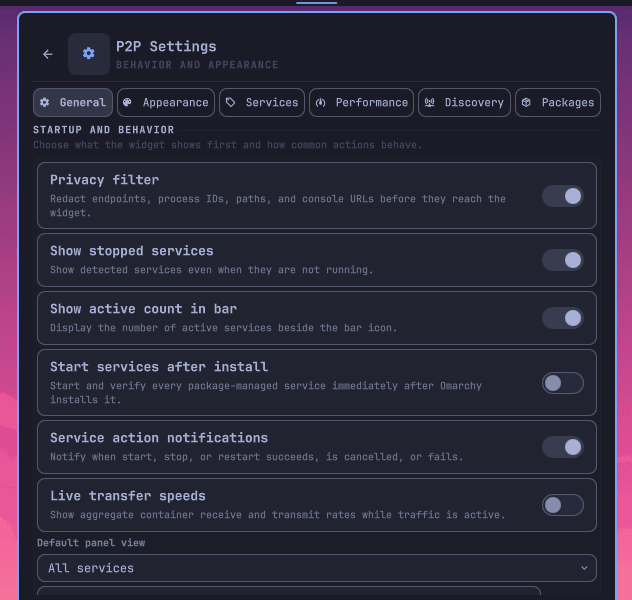
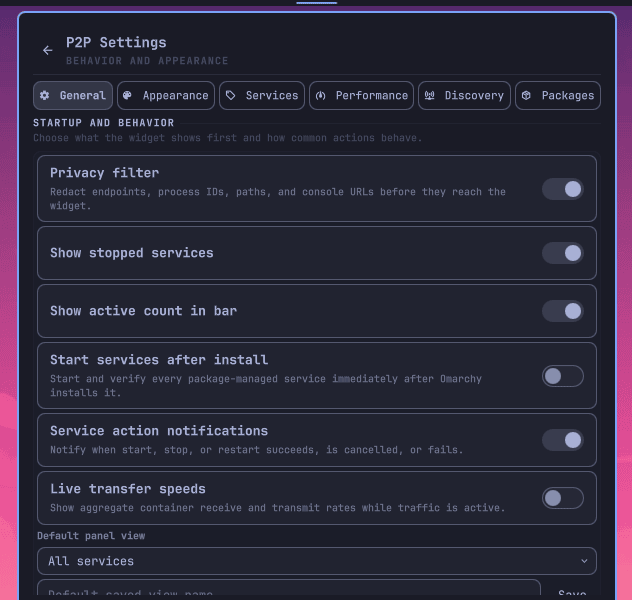
refactor: clarify settings information

Changed region(s): [[0.0301, 0.06, 0.962, 1.0]]

diff --git a/P2PDiscoverySettings.qml b/P2PDiscoverySettings.qml
@@ -11,10 +11,9 @@ ColumnLayout {
   visible: controller.settingsPage === "discovery"
   Layout.fillWidth: true
   spacing: Style.spacing.md
-          P2PSectionHeading { title: "Console routing"; description: "Choose the fallback host used for discovered container consoles." }
+          P2PSectionHeading { title: "Console routing"; description: "Fallback routing for published container consoles." }
           SettingsSurface {
-          Text { text: "Global console host"; textFormat: Text.PlainText; color: Color.muted; font.family: Style.font.family; font.pixelSize: Style.font.caption }
-          Text { Layout.fillWidth: true; text: "Used with published container ports when no reverse-proxy URL is discovered. Leave empty for 127.0.0.1."; textFormat: Text.PlainText; color: Color.muted; wrapMode: Text.WordWrap; font.family: Style.font.family; font.pixelSize: Style.font.caption }
+          Text { text: "Fallback console host · blank uses 127.0.0.1"; textFormat: Text.PlainText; color: Color.muted; font.family: Style.font.family; font.pixelSize: Style.font.caption }
           RowLayout {
             Layout.fillWidth: true
             TextField { id: consoleHostEditor; objectName: "consoleHostEditor"; Layout.fillWidth: true; placeholderText: "server.home.arpa or 192.168.1.10"; text: String(page.controller.setting("consoleHost", "")); foreground: Color.popups.text; accent: Color.bar.active; font.family: Style.font.family; onAccepted: page.controller.persistKeepingOpen({consoleHost: text.trim()}) }
@@ -22,9 +21,8 @@ ColumnLayout {
           }
           }
 
-          P2PSectionHeading { title: "Service filtering"; description: "Limit the widget to selected detected backend IDs." }
+          P2PSectionHeading { title: "Service filtering"; description: "Optionally limit discovery to selected backend IDs." }
           SettingsSurface {
-          Text { Layout.fillWidth: true; text: "Comma-separated backend IDs. Leave empty to show every detected service."; textFormat: Text.PlainText; color: Color.muted; wrapMode: Text.WordWrap; font.family: Style.font.family; font.pixelSize: Style.font.caption }
           RowLayout {
             Layout.fillWidth: true
             TextField { id: serviceAllowlistEditor; objectName: "serviceAllowlistEditor"; Layout.fillWidth: true; placeholderText: "yggdrasil, i2pd, syncthing"; text: Model.enabled(page.controller.setting("enabledServices", []), []).join(", "); foreground: Color.popups.text; accent: Color.bar.active; font.family: Style.font.family }
@@ -32,9 +30,9 @@ ColumnLayout {
           }
           }
 
-          P2PSectionHeading { title: "Custom services"; description: "Add strictly validated process or systemd-backed services." }
+          P2PSectionHeading { title: "Custom services"; description: "Add validated, observation-only process or systemd services." }
           SettingsSurface {
-          Text { Layout.fillWidth: true; text: "JSON array; IDs must begin custom-. Custom services are observation-only: executable, process, and systemd names support detection but cannot be started, stopped, restarted, or edited."; textFormat: Text.PlainText; color: Color.muted; wrapMode: Text.WordWrap; font.family: Style.font.family; font.pixelSize: Style.font.caption }
+          Text { Layout.fillWidth: true; text: "JSON array; IDs begin custom-. Executable, process, and unit fields support detection but never control actions."; textFormat: Text.PlainText; color: Color.muted; wrapMode: Text.WordWrap; font.family: Style.font.family; font.pixelSize: Style.font.caption }
           RowLayout {
             Layout.fillWidth: true
             TextField { id: customServicesEditor; objectName: "customServicesEditor"; Layout.fillWidth: true; placeholderText: "[]"; text: JSON.stringify(page.controller.setting("customServices", [])); foreground: Color.popups.text; accent: Color.bar.active; font.family: Style.font.family }

diff --git a/P2PPackagesSettings.qml b/P2PPackagesSettings.qml
@@ -8,6 +8,7 @@ import "Model.js" as Model
 ColumnLayout {
   id: page
   required property var controller
+  readonly property bool catalogEmpty: controller.missingServices.length === 0 && controller.detectedServiceCatalog.length === 0
   visible: controller.settingsPage === "packages"
   Layout.fillWidth: true
   spacing: Style.spacing.md
@@ -25,6 +26,8 @@ ColumnLayout {
             IntegerSetting { controller: page.controller; settingKey: "backupRetention"; label: "Configuration backups retained per service"; minimum: 1; maximum: 50; fallback: 10 }
           }
           RowLayout {
+            objectName: "availablePackagesHeading"
+            visible: page.controller.missingServices.length > 0
             Layout.fillWidth: true
             Text { Layout.fillWidth: true; text: "Available to install · " + page.controller.missingServices.length; textFormat: Text.PlainText; color: Color.muted; font.family: Style.font.family; font.pixelSize: Style.font.caption; font.weight: Font.DemiBold }
             Button { objectName: "availablePackagesToggle"; text: page.controller.availablePackagesExpanded ? "Show less" : "Show all"; visible: page.controller.missingServices.length > 5; onClicked: page.controller.availablePackagesExpanded = !page.controller.availablePackagesExpanded }
@@ -57,11 +60,14 @@ ColumnLayout {
           }
 
           RowLayout {
+            objectName: "installedPackagesHeading"
+            visible: page.controller.detectedServiceCatalog.length > 0
             Layout.fillWidth: true
             Text { Layout.fillWidth: true; text: "Installed services · " + page.controller.detectedServiceCatalog.length; textFormat: Text.PlainText; color: Color.muted; font.family: Style.font.family; font.pixelSize: Style.font.caption; font.weight: Font.DemiBold }
             Button { objectName: "installedPackagesToggle"; text: page.controller.installedPackagesExpanded ? "Show less" : "Show all"; visible: page.controller.detectedServiceCatalog.length > 5; onClicked: page.controller.installedPackagesExpanded = !page.controller.installedPackagesExpanded }
           }
-          Text { Layout.fillWidth: true; text: "Package-managed services can be removed after they are stopped. Configuration is backed up first. Container and manual installs remain externally managed."; textFormat: Text.PlainText; color: Color.muted; wrapMode: Text.WordWrap; font.family: Style.font.family; font.pixelSize: Style.font.caption }
+          Text { visible: page.controller.detectedServiceCatalog.length > 0; Layout.fillWidth: true; text: "Package-managed services can be removed after they are stopped; configuration is backed up first. Other installs remain externally managed."; textFormat: Text.PlainText; color: Color.muted; wrapMode: Text.WordWrap; font.family: Style.font.family; font.pixelSize: Style.font.caption }
+          Text { objectName: "emptyPackageCatalogText"; visible: page.catalogEmpty && !page.controller.catalogLoading; Layout.fillWidth: true; text: "No package changes are available. Manual and container services remain externally managed."; textFormat: Text.PlainText; color: Color.muted; wrapMode: Text.WordWrap; font.family: Style.font.family; font.pixelSize: Style.font.caption }
           Repeater {
             model: page.controller.settingsPage === "packages" ? page.controller.visibleDetectedServiceCatalog : []
             delegate: Rectangle {

diff --git a/P2PSettingsNavigation.qml b/P2PSettingsNavigation.qml
@@ -13,32 +13,25 @@ ColumnLayout {
 
   RowLayout {
     Layout.fillWidth: true
-    spacing: Style.spacing.md
+    spacing: Style.spacing.sm
     Button { objectName: "settingsBackButton"; iconText: ""; tooltipText: "Back"; horizontalPadding: Style.spacing.controlGap; onClicked: navigation.controller.showingWidgetSettings = false }
-    Rectangle {
-      implicitWidth: Style.space(42)
-      implicitHeight: Style.space(42)
-      radius: Style.cornerRadius
-      color: Util.alpha(Color.accent, 0.12)
-      Text { anchors.centerIn: parent; text: ""; textFormat: Text.PlainText; color: Color.accent; font.family: Style.font.family; font.pixelSize: Style.font.icon }
-    }
     ColumnLayout {
       Layout.fillWidth: true
       spacing: Style.space(2)
       Text { Layout.fillWidth: true; text: "P2P Settings"; textFormat: Text.PlainText; color: Color.popups.text; font.family: Style.font.family; font.pixelSize: Style.font.title; font.weight: Font.Bold }
       Text { Layout.fillWidth: true; text: navigation.controller.settingsPageDescription(); textFormat: Text.PlainText; color: Color.muted; font.family: Style.font.family; font.pixelSize: Style.font.caption; font.weight: Font.DemiBold; font.letterSpacing: 1.1 }
-      P2PLoadingIndicator {
-        objectName: "settingsSaveLoadingIndicator"
-        running: navigation.controller.settingsSaveStatus === "saving"
-        compact: true
-        label: "SAVING SETTINGS"
-        style: String(navigation.controller.setting("loadingIndicatorStyle", "spinner"))
-        glyph: String(navigation.controller.setting("loadingIndicatorGlyph", ">"))
-        speed: Number(navigation.controller.setting("loadingIndicatorSpeed", 140)) || 140
-        tone: Color.accent
-      }
-      Text { objectName: "settingsSavedStatus"; visible: navigation.controller.settingsSaveStatus === "saved"; text: "✓ SETTINGS SAVED"; textFormat: Text.PlainText; color: Color.accent; font.family: Style.font.family; font.pixelSize: Style.font.caption; font.weight: Font.DemiBold; font.letterSpacing: 0.8 }
     }
+    P2PLoadingIndicator {
+      objectName: "settingsSaveLoadingIndicator"
+      running: navigation.controller.settingsSaveStatus === "saving"
+      compact: true
+      label: "SAVING"
+      style: String(navigation.controller.setting("loadingIndicatorStyle", "spinner"))
+      glyph: String(navigation.controller.setting("loadingIndicatorGlyph", ">"))
+      speed: Number(navigation.controller.setting("loadingIndicatorSpeed", 140)) || 140
+      tone: Color.accent
+    }
+    Text { objectName: "settingsSavedStatus"; visible: navigation.controller.settingsSaveStatus === "saved"; text: "✓ SAVED"; textFormat: Text.PlainText; color: Color.accent; font.family: Style.font.family; font.pixelSize: Style.font.caption; font.weight: Font.DemiBold; font.letterSpacing: 0.8 }
   }
 
   PanelSeparator { Layout.fillWidth: true; foreground: navigation.controller.bar ? navigation.controller.bar.foreground : Color.popups.text }

diff --git a/BarWidget.qml b/BarWidget.qml
@@ -293,14 +293,35 @@ Panel {
     if (rotation === "counterclockwise") return -90
     return 0
   }
-  function openSettings(page) {
-    var requested = String(page || "general")
-    if (["general", "appearance", "services", "performance", "discovery", "packages"].indexOf(requested) < 0) return "invalid page"
+  function focusedPanelInstance() {
+    if (bar && typeof bar.findPanelWidget === "function") return bar.findPanelWidget(moduleName)
+    return root
+  }
+  function openFocused() {
+    var target = focusedPanelInstance()
+    if (target && target !== root && typeof target.open === "function") target.open()
+    else open()
+  }
+  function applySettingsPage(requested) {
+    requested = String(requested || "general")
     editingServiceId = ""
     settingsPage = requested
     showingWidgetSettings = true
     if (!opened) open()
     return "ok"
+  }
+  function openSettings(page) {
+    var requested = String(page || "general")
+    if (["general", "appearance", "services", "performance", "discovery", "packages"].indexOf(requested) < 0) return "invalid page"
+    var target = focusedPanelInstance()
+    if (target && target !== root && typeof target.applySettingsPage === "function") return target.applySettingsPage(requested)
+    return applySettingsPage(requested)
+  }
+  function focusedSettingsReady(page) {
+    var target = focusedPanelInstance()
+    return !!target && target.opened === true && target.showingWidgetSettings === true
+      && target.settingsPage === String(page) && target.settingsSurfaceLoaded === true
+      && target.settingsIndicatorVisible !== true
   }
   function labelFor(entry) { var values = setting("serviceLabels", {}) || {}; return values[entry.id] || entry.name }
   function iconFor(entry) { var values = setting("serviceIcons", {}) || {}; return values[entry.id] || entry.icon }
@@ -615,9 +636,10 @@ Panel {
 
   IpcHandler {
     target: root.moduleName
-    function open(): void { root.showingWidgetSettings = false; root.open() }
+    function open(): void { root.showingWidgetSettings = false; root.openFocused() }
     function close(): void { root.close() }
     function openSettings(page: string): string { return root.openSettings(page) }
+    function settingsReady(page: string): string { return root.focusedSettingsReady(page) ? "true" : "false" }
     function privacyEnabled(): string { return root.privacyFilter ? "true" : "false" }
   }
 

diff --git a/P2PGeneralSettings.qml b/P2PGeneralSettings.qml
@@ -15,8 +15,8 @@ ColumnLayout {
           SettingsSurface {
           visible: page.controller.settingsPage === "general"
           Toggle { objectName: "privacyFilterToggle"; Layout.fillWidth: true; label: "Privacy filter"; description: "Redact endpoints, process IDs, paths, and console URLs before they reach the widget."; checked: page.controller.privacyFilter; foreground: Color.popups.text; accent: checked ? Color.bar.active : Color.urgent; fontFamily: Style.font.family; onClicked: page.controller.togglePrivacyFilter() }
-          Toggle { objectName: "showStoppedToggle"; Layout.fillWidth: true; label: "Show stopped services"; description: "Show detected services even when they are not running."; checked: page.controller.showStopped; foreground: Color.popups.text; accent: Color.bar.active; fontFamily: Style.font.family; onClicked: page.controller.persistKeepingOpen({showStopped: !checked}) }
-          P2PSettingToggle { controller: page.controller; settingKey: "showCount"; label: "Show active count in bar"; fallback: true; description: "Display the number of active services beside the bar icon." }
+          Toggle { objectName: "showStoppedToggle"; Layout.fillWidth: true; label: "Show stopped services"; checked: page.controller.showStopped; foreground: Color.popups.text; accent: Color.bar.active; fontFamily: Style.font.family; onClicked: page.controller.persistKeepingOpen({showStopped: !checked}) }
+          P2PSettingToggle { controller: page.controller; settingKey: "showCount"; label: "Show active count in bar"; fallback: true }
           P2PSettingToggle { controller: page.controller; settingKey: "autoStartAfterInstall"; label: "Start services after install"; fallback: false; description: "Start and verify every package-managed service immediately after Omarchy installs it." }
           P2PSettingToggle { controller: page.controller; settingKey: "notifyOnControlChanges"; label: "Service action notifications"; fallback: true; description: "Notify when start, stop, or restart succeeds, is cancelled, or fails." }
           P2PSettingToggle { controller: page.controller; settingKey: "showTrafficStats"; label: "Live transfer speeds"; fallback: true; description: "Show aggregate container receive and transmit rates while traffic is active." }

diff --git a/RuntimePackagesSettingsTest.qml b/RuntimePackagesSettingsTest.qml
@@ -46,7 +46,11 @@ ShellRoot {
     var stop = descendant(page, "stopPackageButton-syncthing")
     var uninstall = descendant(page, "uninstallPackageButton-syncthing")
     var loading = descendant(page, "catalogLoadingIndicator")
-    if (!availableToggle || !installedToggle || !install || !stop || !uninstall || !loading) throw new Error("package settings controls are not addressable")
+    var availableHeading = descendant(page, "availablePackagesHeading")
+    var installedHeading = descendant(page, "installedPackagesHeading")
+    var emptyCatalog = descendant(page, "emptyPackageCatalogText")
+    if (!availableToggle || !installedToggle || !install || !stop || !uninstall || !loading || !availableHeading || !installedHeading || !emptyCatalog) throw new Error("package settings controls are not addressable")
+    if (!availableHeading.visible || !installedHeading.visible || emptyCatalog.visible) throw new Error("populated package catalog presentation failed")
     if (!loading.visible || loading.label !== "QUERYING PACKAGE CATALOG") throw new Error("catalog loading state failed")
     mockController.values = ({showLoadingIndicators:false})
     if (loading.running) throw new Error("disabled loading preference did not hide active catalog indicator")
@@ -63,6 +67,9 @@ ShellRoot {
       if (stop.visible || !uninstall.enabled) throw new Error("stopped package action state failed")
       uninstall.clicked()
       if (mockController.events.length !== 3 || mockController.events[2].kind !== "uninstall" || mockController.events[2].id !== "syncthing") throw new Error("package uninstall dispatch failed")
+      mockController.missingServices = []
+      mockController.detectedServiceCatalog = []
+      if (availableHeading.visible || installedHeading.visible || !emptyCatalog.visible) throw new Error("empty package catalog did not replace zero-count headings")
       mockController.catalogLoading = true
       mockController.settingsPage = "general"
       if (page.visible || !loading.running) throw new Error("catalog loading state was not preserved while navigating away")

diff --git a/RuntimePluginSmokeTest.qml b/RuntimePluginSmokeTest.qml
@@ -18,6 +18,7 @@ ShellRoot {
 
   QtObject {
     id: barMock
+    property bool routeToFocusedFixture: false
     property var shell: shellMock
     property color barForeground: "#ffffff"
     property color foreground: "#ffffff"
@@ -27,6 +28,19 @@ ShellRoot {
     property string position: "top"
     property var screen: null
     function switchPanelFrom(_owner, _direction) { return false }
+    function findPanelWidget(_id) { return routeToFocusedFixture ? focusedWidgetFixture : widget }
+  }
+
+  QtObject {
+    id: focusedWidgetFixture
+    property string requestedPage: ""
+    property bool opened: true
+    property bool showingWidgetSettings: true
+    property string settingsPage: requestedPage
+    property bool settingsSurfaceLoaded: true
+    property bool settingsIndicatorVisible: false
+    function applySettingsPage(page) { requestedPage = page; return "ok" }
+    function open() {}
   }
 
   BarWidget {
@@ -49,6 +63,12 @@ ShellRoot {
       if (root.stage === 0) {
       if (widget.moduleName !== "io.github.bolens.p2p-services" || widget.p2pService !== sharedService) throw new Error("plugin service wiring failed")
       if (!widget.durableSettingsLoaded || !Array.isArray(widget.services) || widget.barText() === "") throw new Error("plugin initial load failed")
+      barMock.routeToFocusedFixture = true
+      if (widget.openSettings("packages") !== "ok" || focusedWidgetFixture.requestedPage !== "packages" || widget.showingWidgetSettings)
+        throw new Error("settings IPC did not route to the focused monitor instance")
+      if (!widget.focusedSettingsReady("packages") || widget.focusedSettingsReady("general"))
+        throw new Error("focused settings readiness did not identify the loaded page")
+      barMock.routeToFocusedFixture = false
       if (widget.statusLoading) throw new Error("initial service loading state did not settle")
       if (!widget.serviceLoadingVisible) throw new Error("fast service discovery did not retain a visible loading frame")
       widget.saveConsoleUrl("syncthing", "file:///tmp/ui")

diff --git a/README.md b/README.md
@@ -7,15 +7,15 @@ peer-to-peer clients and overlay-network daemons.
 [Source](https://github.com/bolens/omarchy-p2p-services) ·
 [Report an issue](https://github.com/bolens/omarchy-p2p-services/issues/new/choose)
 
-![P2P Services status panel with privacy filtering enabled](preview.png?v=3b7f4c58d582)
+![P2P Services status panel with privacy filtering enabled](preview.png?v=f0c6645a989d)
 
 | General settings | Performance settings | Bar widget |
 | --- | --- | --- |
-| ![P2P Services privacy and behavior settings](docs/general.png?v=201898112cb0) | ![P2P Services refresh and resource settings](docs/performance.png?v=a67f887fdd5f) | ![P2P Services Omarchy bar widget](docs/bar.png?v=f1f8ab12287a) |
+| ![P2P Services privacy and behavior settings](docs/general.png?v=78b41fe0b135) | ![P2P Services refresh and resource settings](docs/performance.png?v=e1bc89cca2a8) | ![P2P Services Omarchy bar widget](docs/bar.png?v=f1f8ab12287a) |
 
 | Compact icon list | Two-column grid |
 | --- | --- |
-| ![P2P Services compact icon list](docs/compact.png?v=1a4cc8d8b56a) | ![P2P Services two-column service grid](docs/grid.png?v=6c3bb4f3ba04) |
+| ![P2P Services compact icon list](docs/compact.png?v=2891e8377b73) | ![P2P Services two-column service grid](docs/grid.png?v=dd9778fbf463) |
 
 Supported backends include Yggdrasil, Tailscale, ZeroTier, Nebula, Headscale,
 NetBird, NetBird Server, Netmaker, Netmaker Client, I2P/I2Pd, Freenet/Hyphanet, AirDC++,
